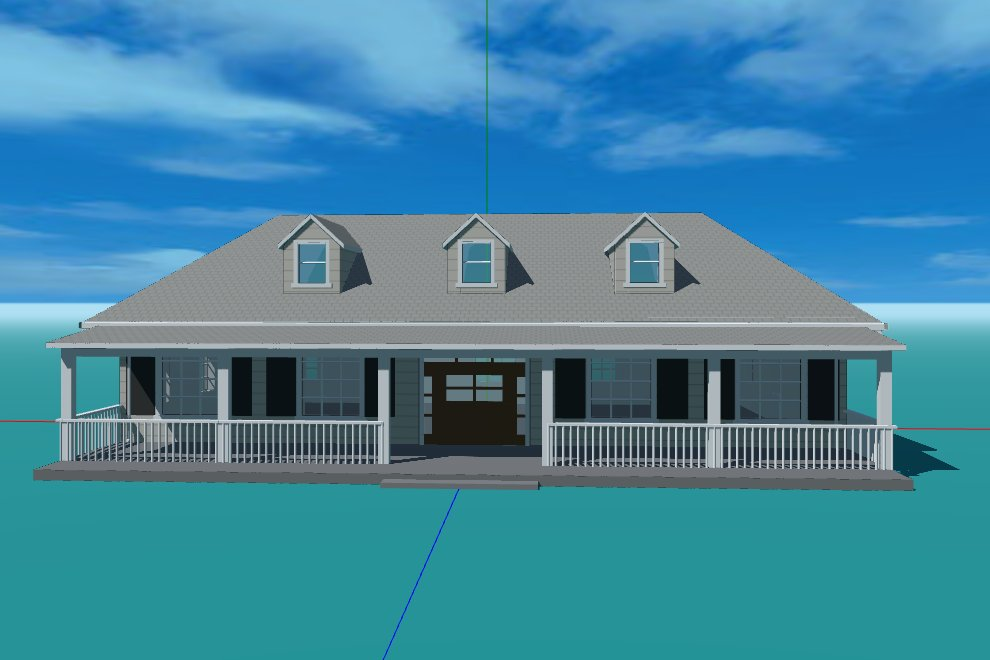
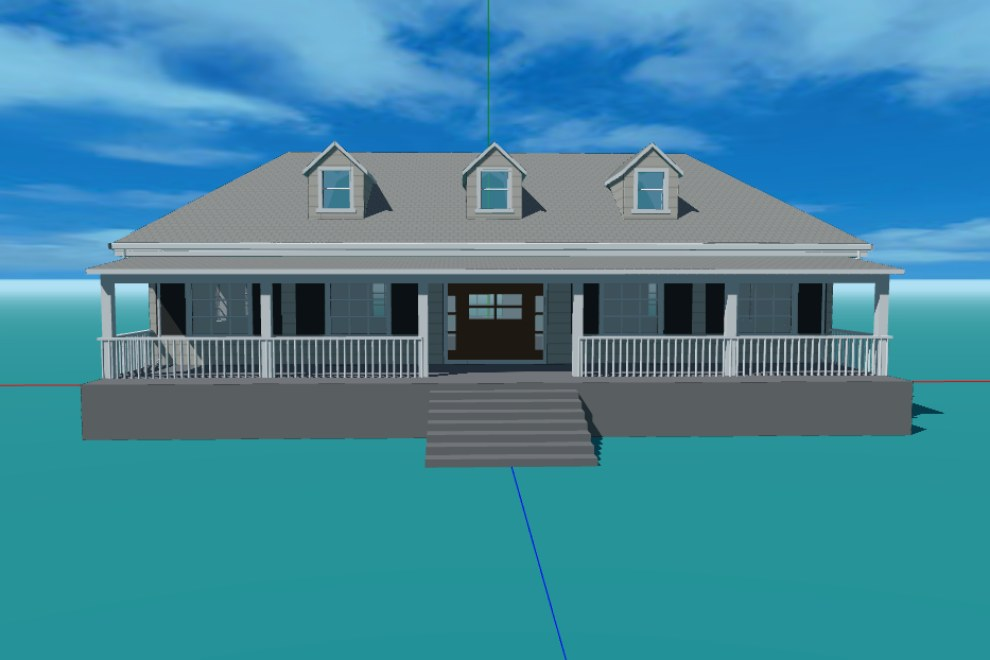
work

diff --git a/public/aladdin-photo-to-model.html b/public/aladdin-photo-to-model.html
@@ -465,7 +465,7 @@
                         <img src="image/aladdin-photo-to-model-veranda-reference.jpg" loading="lazy" alt="Photograph of a broad one-storey cream house with a low hipped roof, three pedimented dormers and a full-width raised veranda on square columns">
                         <img src="image/aladdin-photo-to-model-veranda-built.jpg" loading="lazy" alt="The same house rebuilt as an editable 3D model in Aladdin, seen straight on">
                         </div>
-                        <figcaption><strong>Matched:</strong> the broad one-storey body under a low hipped roof, the three dormers in the front slope, the full-width raised veranda on square white posts with its railing, the centred entrance, the light siding with dark shutters and the divided-light windows. <strong>Missed:</strong> the pediments and arched sash over the dormers, the sidelights and transom framing the door, the entablature across the veranda, and the lattice skirting under the deck. Built from one request, then adjusted over three follow-up messages: the main roof&rsquo;s ridge was lengthened twice and the dormers were spread further apart. <em>Photograph: The Spruce / Sarah Crowley.</em></figcaption>
+                        <figcaption><strong>Matched:</strong> the broad one-storey body under a low hipped roof, the three dormers in the front slope, the full-width raised veranda on square white posts with its railing, the centred entrance, the light siding with dark shutters and the divided-light windows. <strong>Missed:</strong> the pediments and arched sash over the dormers, the sidelights and transom framing the door, the entablature across the veranda, and the lattice skirting under the deck. Built from one request, then adjusted over a few follow-up messages: the main roof&rsquo;s ridge was lengthened twice, the dormers were spread further apart, and the veranda was raised to the level of the house floor, which put a flight of steps down to the front walk. <em>Photograph: The Spruce / Sarah Crowley.</em></figcaption>
                     </figure>
 
                     <p>The same model, live.</p>
